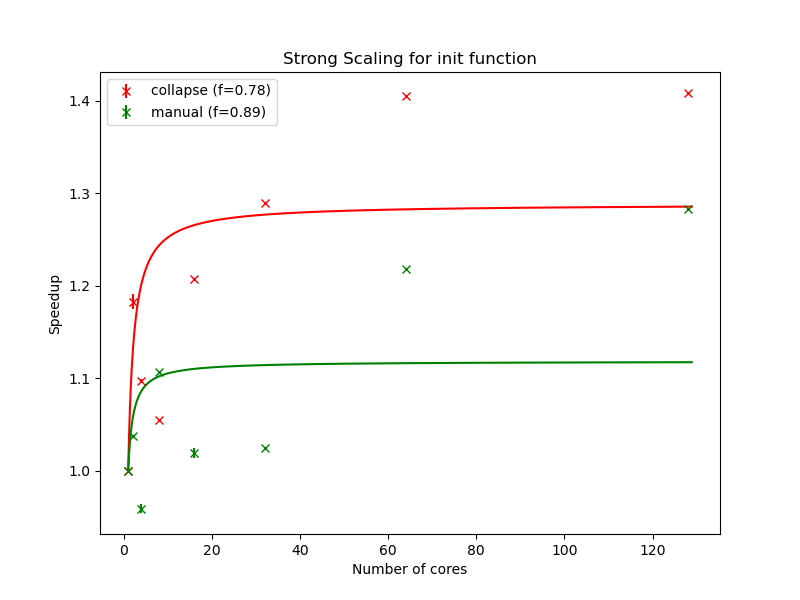
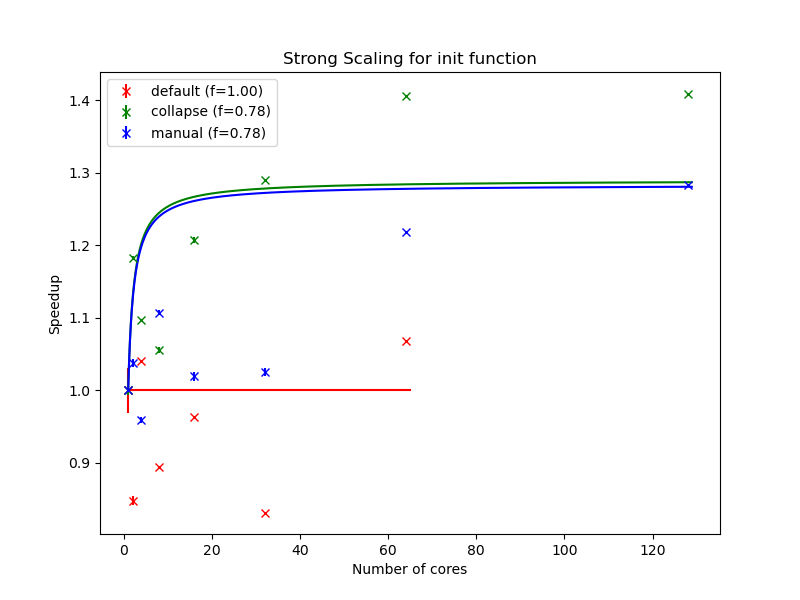
python now uses errors in plots and fit calculation, plots for results stored

diff --git a/coursework/part1/part1.py b/coursework/part1/part1.py
@@ -7,12 +7,12 @@ def speedup(p,f):
     return 1/(f + (1-f)/p)
 
 
-funcs = ["init","step","norm"]#,"dxdt"]
+funcs = ["init","step","norm","dxdt"]
 variants = {}
-variants["init"]= ["collapse","manual"] # no default
+variants["init"]= ["default","collapse","manual"] # no default
 variants["step"]= ["default","collapse","manual"]
-variants["norm"]= ["default","collapse"] #no manual
-#variants["dxdt"]= ["default","collapse","single"] # none yet
+variants["norm"]= ["default","collapse","manual"] #no manual
+variants["dxdt"]= ["default","collapse","single"] # none yet
 colors = ["red","green","blue"]
 for func in funcs:
     fig, ax = plt.subplots(1,1,figsize =(8,6))
@@ -25,20 +25,25 @@ for func in funcs:
         data[variant] = pd.read_csv(filename,delimiter=",")
         data[variant]["cores"] = data[variant]["cores"].astype(int)
         data[variant]["time_seconds"] = pd.to_numeric(data[variant]["time_seconds"], errors="coerce")
-        mean_data = data[variant].groupby("cores", as_index=False)["time_seconds"].mean()
-        mean_data["stderr"] = data[variant].groupby("cores")["time_seconds"].std()/np.sqrt(data[variant].groupby("cores")["time_seconds"].count()).values
-        
+        grouped = data[variant].groupby("cores")["time_seconds"]
+
+        mean_data = grouped.agg(
+            mean="mean",
+            std="std",
+            count="count"
+        ).reset_index()
+        mean_data["stderr"] = mean_data["std"] / np.sqrt(mean_data["count"])
         # Determine single-core time
         if 1 in mean_data["cores"].values:
-            single_core_time = mean_data.loc[mean_data["cores"] == 1, "time_seconds"].values[0]
+            single_core_time = mean_data.loc[mean_data["cores"] == 1, "mean"].values[0]
         else:
-            single_core_time = mean_data["time_seconds"].iloc[0]  # fallback to smallest core count
+            single_core_time = mean_data["mean"].iloc[0]  # fallback to smallest core count
         
-        mean_data["speedup"] = single_core_time / mean_data["time_seconds"]
-        mean_data["speedup_error"] = (single_core_time / mean_data["time_seconds"]**2) * mean_data["stderr"]
-        
+        mean_data["speedup"] = single_core_time / mean_data["mean"]
+        mean_data["speedup_error"] = (single_core_time / mean_data["mean"]**2) * mean_data["stderr"]
+        mean_data["stderr"] = mean_data["std"] / np.sqrt(mean_data["count"])
         xs = np.arange(1, max(mean_data["cores"])+1,0.1)
-        params,covar = optimize.curve_fit(speedup,mean_data["cores"],mean_data["speedup"],p0=[0.1])
+        params,covar = optimize.curve_fit(speedup,mean_data["cores"],mean_data["speedup"],p0=[0.1],sigma =mean_data["speedup_error"],absolute_sigma=True,bounds=(0,1))
         f = params[0]
         ax.plot(xs,speedup(xs,f), color=colors[i])
         ax.errorbar(mean_data["cores"],mean_data["speedup"],yerr=mean_data["speedup_error"],marker='x',label = variant+f" (f={f:.2f})",color=colors[i],linestyle='')
